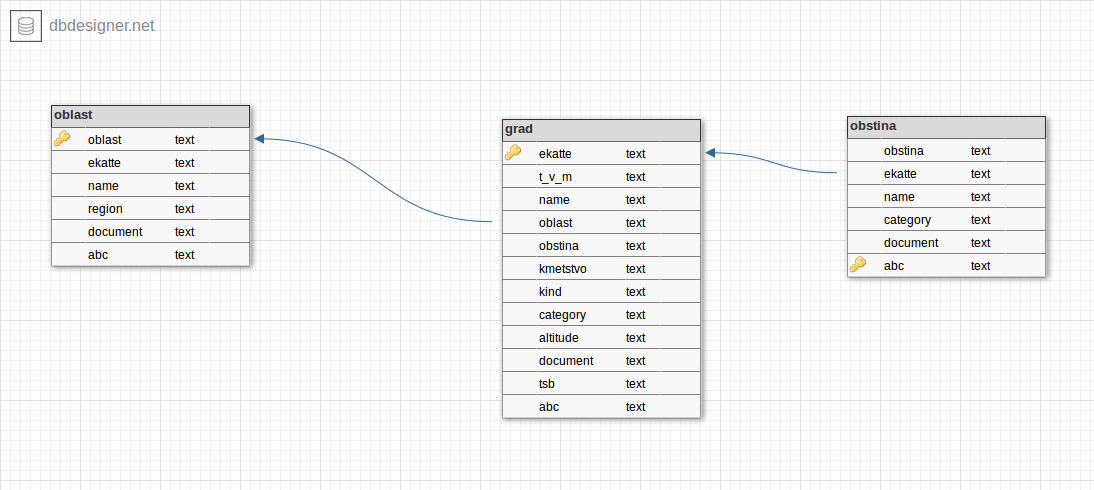
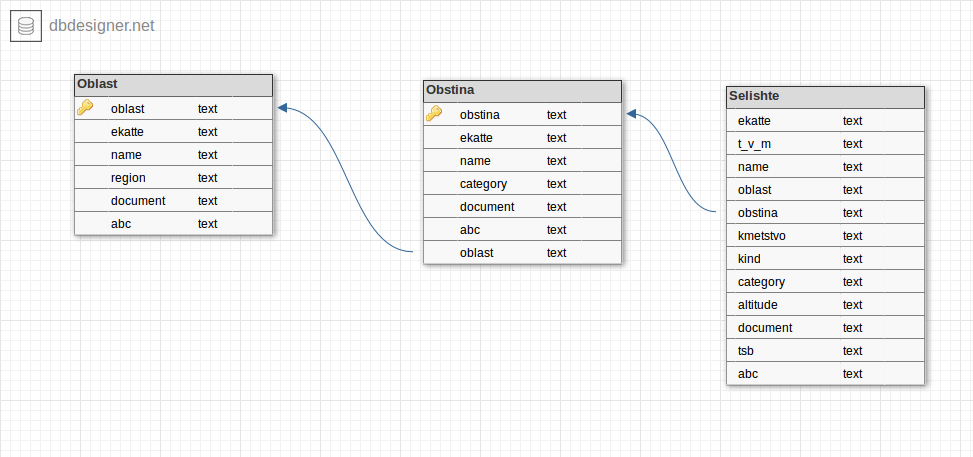
two helper tables to insert afterwards

Changed region(s): [[0.4008, 0.1532, 0.9866, 0.8884], [0.0308, 0.1532, 0.4008, 0.5514], [0.0, 0.0, 0.1542, 0.0919]]

diff --git a/ekatte/ekatte.php b/ekatte/ekatte.php
@@ -1,0 +1,105 @@
+<!DOCTYPE html >
+  <head>
+    	<meta name="viewport" content="initial-scale=1.0, user-scalable=no" />
+    	<meta http-equiv="content-type" content="text/html; charset=UTF-8"/>
+    	<title>Ekatte places</title>
+	<script src="http://code.jquery.com/jquery-latest.js"
+            type="text/javascript"></script>
+	<link rel="stylesheet" href="//code.jquery.com/ui/1.11.4/themes/smoothness/jquery-ui.css">
+  	<script src="//code.jquery.com/jquery-1.10.2.js"></script>
+	<script src="//code.jquery.com/ui/1.11.4/jquery-ui.js"></script>
+
+<script type="text/javascript">
+
+function getParameterByName(name, url) 
+{
+    if (!url) url = window.location.href;
+    name = name.replace(/[\[\]]/g, "\\$&");
+    var regex = new RegExp("[?&]" + name + "(=([^&#]*)|&|#|$)", "i"),
+    results = regex.exec(url);
+    if (!results) return null;
+    if (!results[2]) return '';
+    return decodeURIComponent(results[2].replace(/\+/g, " "));
+}
+
+function downloadUrl(url, callgetParameterByNameback) 
+{
+	var request = window.ActiveXObject ?
+	new ActiveXObject('Microsoft.XMLHTTP') :
+	new XMLHttpRequest;
+	request.onreadystatechange = function() 
+	{
+        	if (request.readyState == 4) 
+		{
+          		callgetParameterByNameback(request, request.status);
+  		}
+	};
+	request.open('GET', url, true);
+	request.send(null);
+}
+
+function myFunction() 
+{
+	console.log("Start of myfunction");
+	var input = document.getElementById('mySearch').value;
+	var url = "http://10.20.1.151/helper.php?entry=" + document.getElementById('mySearch').value;
+	$.ajax({
+		type: "GET",
+		crossDomain: true,
+		url: "http://10.20.1.151/helper.php?entry=" + document.getElementById('mySearch').value,
+		dataType: "xml",
+		success: function(xml) 
+		{		
+			console.log("start of ajax success");	
+			downloadUrl(url, function(data) 
+			{		
+      				var xml = data.responseXML;
+        			var helper = xml.documentElement.getElementsByTagName("place");
+				//ASSERT(helper !== null); // slavi
+				
+				var ul = document.getElementById("list");
+  				
+				$(list).empty();
+        			for (var i = 0; i < helper.length; i++) 
+				{   //TRACE("Option", i, option);
+					//option to be displayed properly
+					console.log("in for cycle");
+
+					var li = document.createElement("li");
+					
+	 				li.appendChild(document.createTextNode(helper[i].getAttribute("type") + " "));
+					li.appendChild(document.createTextNode(helper[i].getAttribute("name") + ";   от област: "));
+					li.appendChild(document.createTextNode(helper[i].getAttribute("oblast") + ";   от община: "));
+					li.appendChild(document.createTextNode(helper[i].getAttribute("obstina")));
+	  				ul.appendChild(li);
+					
+       				}
+				
+     			 });
+		},
+    		error: function (jqXHR, textStatus, error) 
+		{
+        		console.log('Error: ' + error.message);
+       			alert("ERROR" + error.message);
+       		}
+	});
+}
+
+
+</script>
+</head>
+
+<body onload="load()">
+<p>Enter:</p>
+<input type="search" id="mySearch" placeholder="Search for place..">
+
+<button onclick="myFunction()">Search</button>
+
+<p id="places"></p>
+
+<ul id = "list"></ul> 
+
+
+
+</body>
+</html>

diff --git a/ekatte/xlsToPostgres.py b/ekatte/xlsToPostgres.py
@@ -5,38 +5,46 @@ conn = psycopg2.connect("host='' port='5432' dbname='ekatte' user='postgres' pas
 cur = conn.cursor()
 
 
+
 data_xls = pd.read_excel('/home/slavi/Desktop/ekatte/important/Ek_obl.xls', index_col=None)
 data_xls.to_csv('/home/slavi/Desktop/Ek_obl.csv', encoding='utf-8')
 cur.execute("COPY oblast FROM '/home/slavi/Desktop/Ek_obl.csv' DELIMITER ',' CSV")
 conn.commit()
 
 
+data_xls = pd.read_excel('/home/slavi/Desktop/ekatte/important/Ek_obst.xls', index_col=None)
+data_xls.to_csv('/home/slavi/Desktop/Ek_obst.csv', encoding='utf-8')
+cur.execute("COPY helperObstina FROM '/home/slavi/Desktop/Ek_obst.csv' DELIMITER ',' CSV")
+conn.commit()
+
 
 data_xls = pd.read_excel('/home/slavi/Desktop/ekatte/important/Ek_atte.xls', index_col=None)
 data_xls.to_csv('/home/slavi/Desktop/Ek_atte.csv', encoding='utf-8')
-cur.execute("COPY grad FROM '/home/slavi/Desktop/Ek_atte.csv' DELIMITER ',' CSV")
+cur.execute("COPY helperSelishte FROM '/home/slavi/Desktop/Ek_atte.csv' DELIMITER ',' CSV")
 conn.commit()
 
 
-
-data_xls = pd.read_excel('/home/slavi/Desktop/ekatte/important/Ek_obst.xls', index_col=None)
-data_xls.to_csv('/home/slavi/Desktop/Ek_obst.csv', encoding='utf-8')
-cur.execute("COPY obstina FROM '/home/slavi/Desktop/Ek_obst.csv' DELIMITER ',' CSV")
+cur.execute('ALTER TABLE helperSelishte DROP COLUMN "id"')
+conn.commit()
+cur.execute("DELETE FROM helperSelishte WHERE abc = 'abc'")
 conn.commit()
 
-cur.execute('ALTER TABLE obstina DROP COLUMN "id"')
+
+cur.execute('ALTER TABLE helperObstina DROP COLUMN "id"')
 conn.commit()
-cur.execute("DELETE FROM obstina WHERE abc = 'abc'")
+cur.execute("DELETE FROM helperObstina WHERE abc = 'abc'")
 conn.commit()
 
-cur.execute('ALTER TABLE grad DROP COLUMN "id"')
-conn.commit()
-cur.execute("DELETE FROM grad WHERE abc = 'abc'")
+cur.execute('ALTER TABLE public.helperobstina ADD COLUMN oblast text')
 conn.commit()
 
-cur.execute('ALTER TABLE oblast DROP COLUMN "id"')
+cur.execute('INSERT INTO helperObstina(oblast) SELECT oblast FROM helperSelishte')
 conn.commit()
-cur.execute("DELETE FROM oblast WHERE abc = 'abc'")
+
+cur.execute('INSERT INTO obstina SELECT * FROM helperObstina')
 conn.commit()
+
+cur.execute('INSERT INTO selishte SELECT * FROM helperSelishte')
+
 
 

diff --git a/ekatte/helper.php b/ekatte/helper.php
@@ -1,0 +1,42 @@
+<?php
+
+$user = 'postgres';
+$passwd = '3111';
+$db = 'ekatte';
+$port = 5432;
+$host = '';
+
+$strCnx = "host=$host port=$port dbname=$db user=$user password=$passwd";
+$cn = pg_connect($strCnx);
+
+$entry = $_GET['entry'];
+
+
+$query = "SELECT ek_atte.t_v_m, ek_atte.name, ek_obl.name as oblast, ek_obst.name as obstina
+	FROM ek_atte
+	INNER JOIN ek_obst ON ek_atte.obstina = ek_obst.obstina
+	INNER JOIN ek_obl ON ek_atte.oblast = ek_obl.oblast
+	WHERE ek_atte.name LIKE '{$entry}%'";
+$result = pg_query($query);
+
+header("Content-type: text/xml");
+
+// Start XML file, echo parent node
+echo "<Places>"; 
+
+// Iterate through the rows, printing XML nodes for each
+while ($row = @pg_fetch_assoc($result)){
+  // ADD TO XML DOCUMENT NODE
+  echo '<place ';
+
+  echo 'type="' . $row['t_v_m'] . '" ';
+  echo 'name="' . $row['name'] . '" ';
+  echo 'oblast="' . $row['oblast'] . '" ';
+  echo 'obstina="' . $row['obstina'] . '" ';
+  
+  echo '/>';
+}
+
+// End XML file
+echo '</Places>';
+?>
